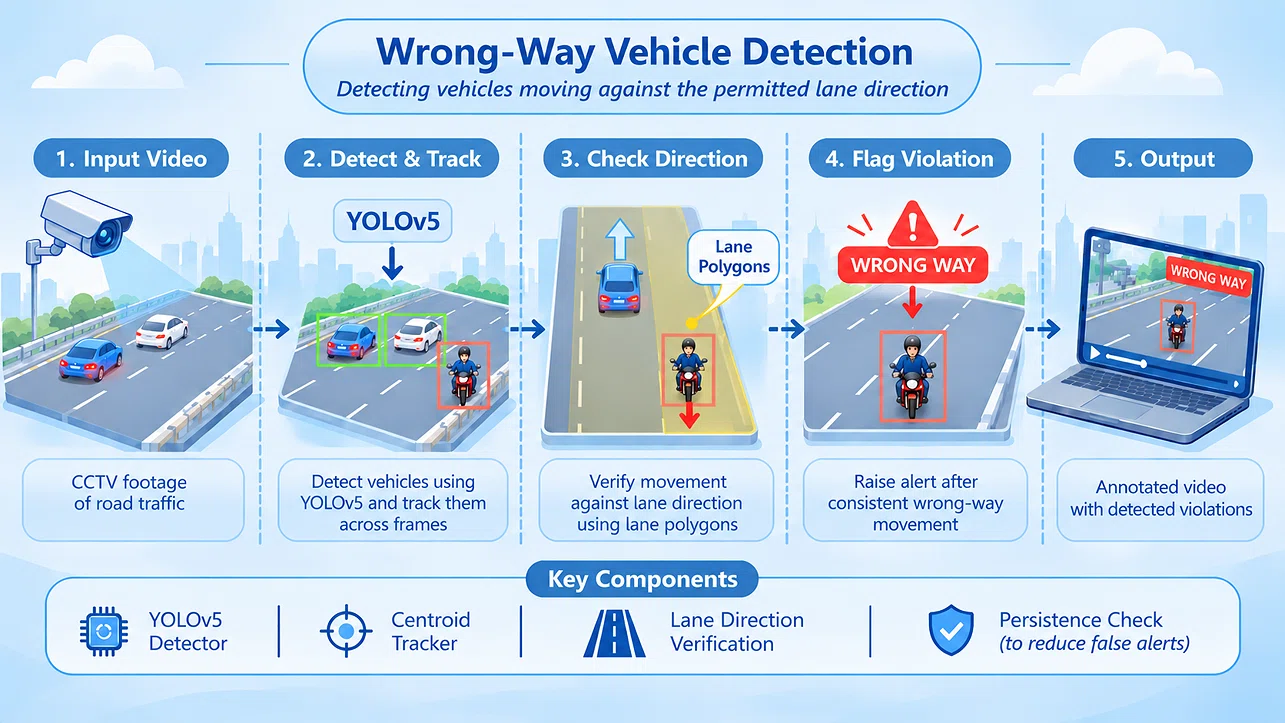
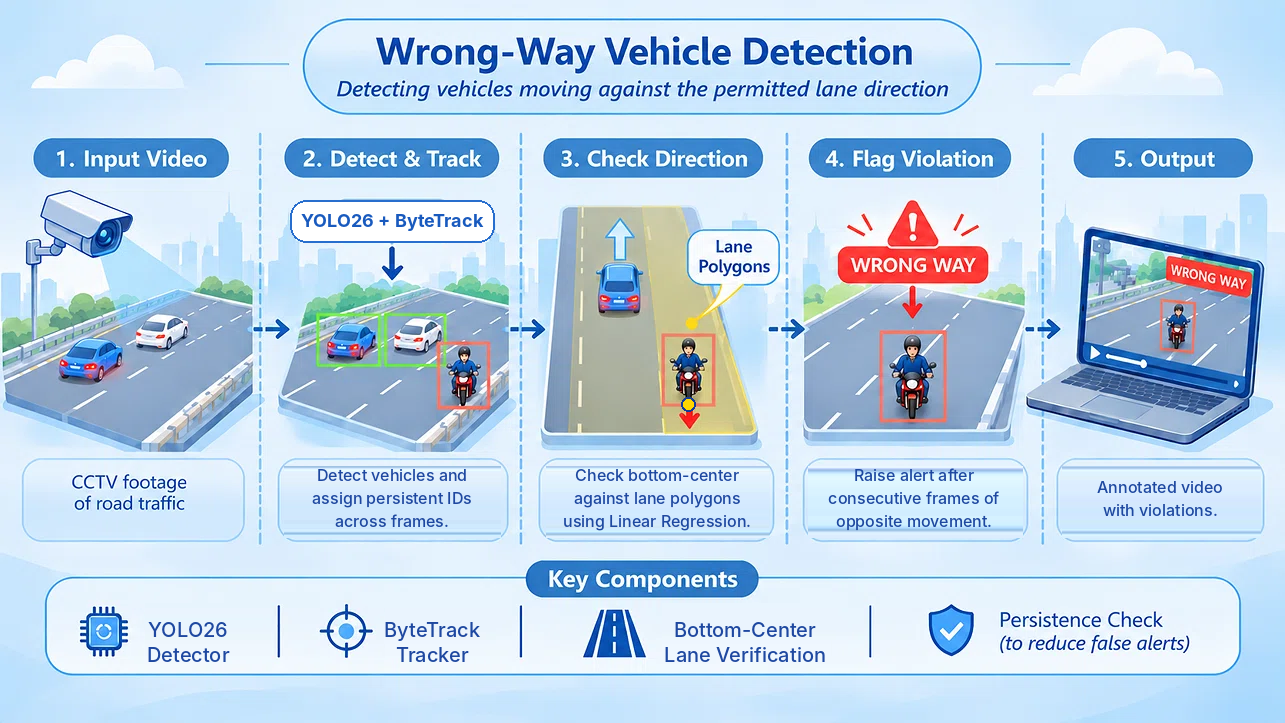
updated working.jpg

diff --git a/wrong_way_detection/README.md b/wrong_way_detection/README.md
@@ -1,4 +1,4 @@
-# 🚦 Wrong-Way Vehicle Detection
+# Wrong-Way Vehicle Detection
 
 Detects vehicles driving **against the permitted direction of their lane** in fixed-camera CCTV footage, using **YOLO26** detection, **ByteTrack** tracking and a custom lane-aware direction engine.
 
@@ -8,17 +8,13 @@ For every tracked vehicle, the pipeline asks one question per frame: *is this ve
 
 > **Note:** The diagram illustrates the V1 concept. The current pipeline has been upgraded to YOLO26, ByteTrack, and uses bottom-center Linear Regression.
 
-
 ## 🎬 Demo
-
 
 10-second, two-way CCTV clip with one wrong-way two-wheeler. Green = normal, yellow = outside every lane, red = wrong-way, dark-blue line = track trail.
 
 [![Output preview (click to open the full video)](demo/output_preview.gif)](demo/output.mp4)
 
-
 ![output_frame](image/README/output_frame_8s.jpg)
-
 
 ## 🔍 How It Works
 
@@ -67,7 +63,6 @@ flowchart LR
 |      −0.5      |     120°     | Exactly at the threshold                        |
 | **−1.0** |     180°     | Moving exactly against the lane → 🚨 wrong-way |
 
-
 ## 🧠 Key Engineering Decisions
 
 | Decision                                           | Why                                                                                                                                                                      |
@@ -100,7 +95,6 @@ flowchart LR
 
 The debug overlay (`debug.mp4` + `debug.csv`) was built to trace exactly these cases frame by frame.
 
-
 ## 📁 Project Structure
 
 ```text
@@ -121,7 +115,6 @@ wrong_way_detection/
 │   └── requirements.txt
 ```
 
-
 ## ⚙ Setup
 
 ```powershell
@@ -135,7 +128,6 @@ pip install -r requirements.txt
 1. Put your footage in the input path set in `backend/configs/configs.yaml`.
 2. Make sure `yolo26s.pt` is available (Ultralytics can download it on first run).
 3. Annotate lane polygons in [CVAT](https://www.cvat.ai/) and paste their coordinates, plus each lane's permitted direction, into `configs.yaml`.
-
 
 ## ▶ Run
 
@@ -159,14 +151,12 @@ Saved in a timestamped folder under `backend/experiments/`:
 
 > **Tip:** `.mp4` files are git-ignored. To keep the demo video in the repo, add `!demo/*.mp4` to `.gitignore`.
 
-
 ## 🚀 Future Improvements
 
 1. **Sticky lane assignment**: hold the last lane for 1–2 frames to stop edge flicker.
 2. **Merge split tracks**: re-identify the same rider after a long occlusion with appearance features.
 3. **Adaptive `min_displacement`**: derive it from camera FPS and vehicle size instead of fixed pixels.
 4. **Class-aware thresholds**: react faster for cars and buses, use a longer window for two-wheelers and pedestrians.
-
 
 ## Credits
 
@@ -175,4 +165,5 @@ Saved in a timestamped folder under `backend/experiments/`:
 - ByteTrack: Zhang et al., *ByteTrack: Multi-Object Tracking by Associating Every Detection Box*, ECCV 2022.
 
 ## Author
+
 Pallavi Raghuvanshi
